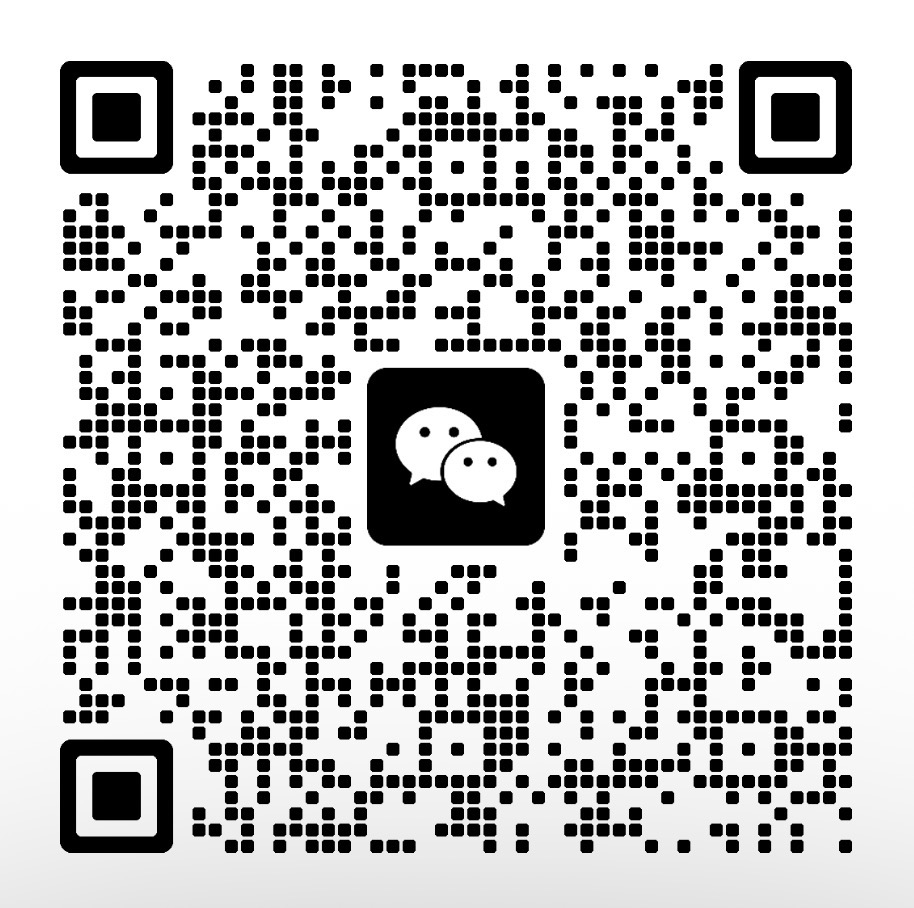
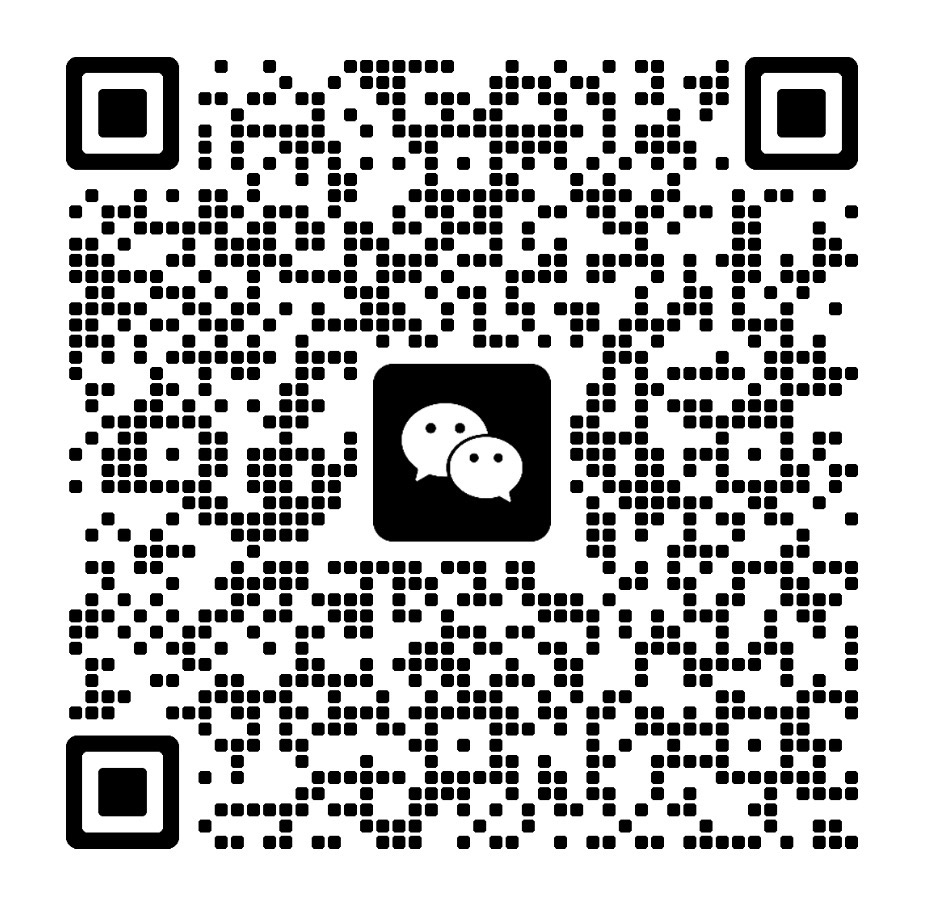
docs: refresh the WeChat community group QR

diff --git a/readme.md b/readme.md
@@ -243,7 +243,7 @@ Got questions about using ClawsomeFlow, or curious about building an **OPC (One-
 </p>
 
 <p align="center">
-  <img src="./docs/assets/wechat-group-qr.png?v=5" alt="ClawsomeFlow WeChat Group" width="240" />
+  <img src="./docs/assets/wechat-group-qr.png?v=6" alt="ClawsomeFlow WeChat Group" width="240" />
 </p>
 
 ---

diff --git a/readme.zh.md b/readme.zh.md
@@ -251,7 +251,7 @@ csflow mcp print-config --platform hermes     # YAML：mcp_servers: …
 </p>
 
 <p align="center">
-  <img src="./docs/assets/wechat-group-qr.png?v=5" alt="ClawsomeFlow 微信交流群" width="240" />
+  <img src="./docs/assets/wechat-group-qr.png?v=6" alt="ClawsomeFlow 微信交流群" width="240" />
 </p>
 
 ---
